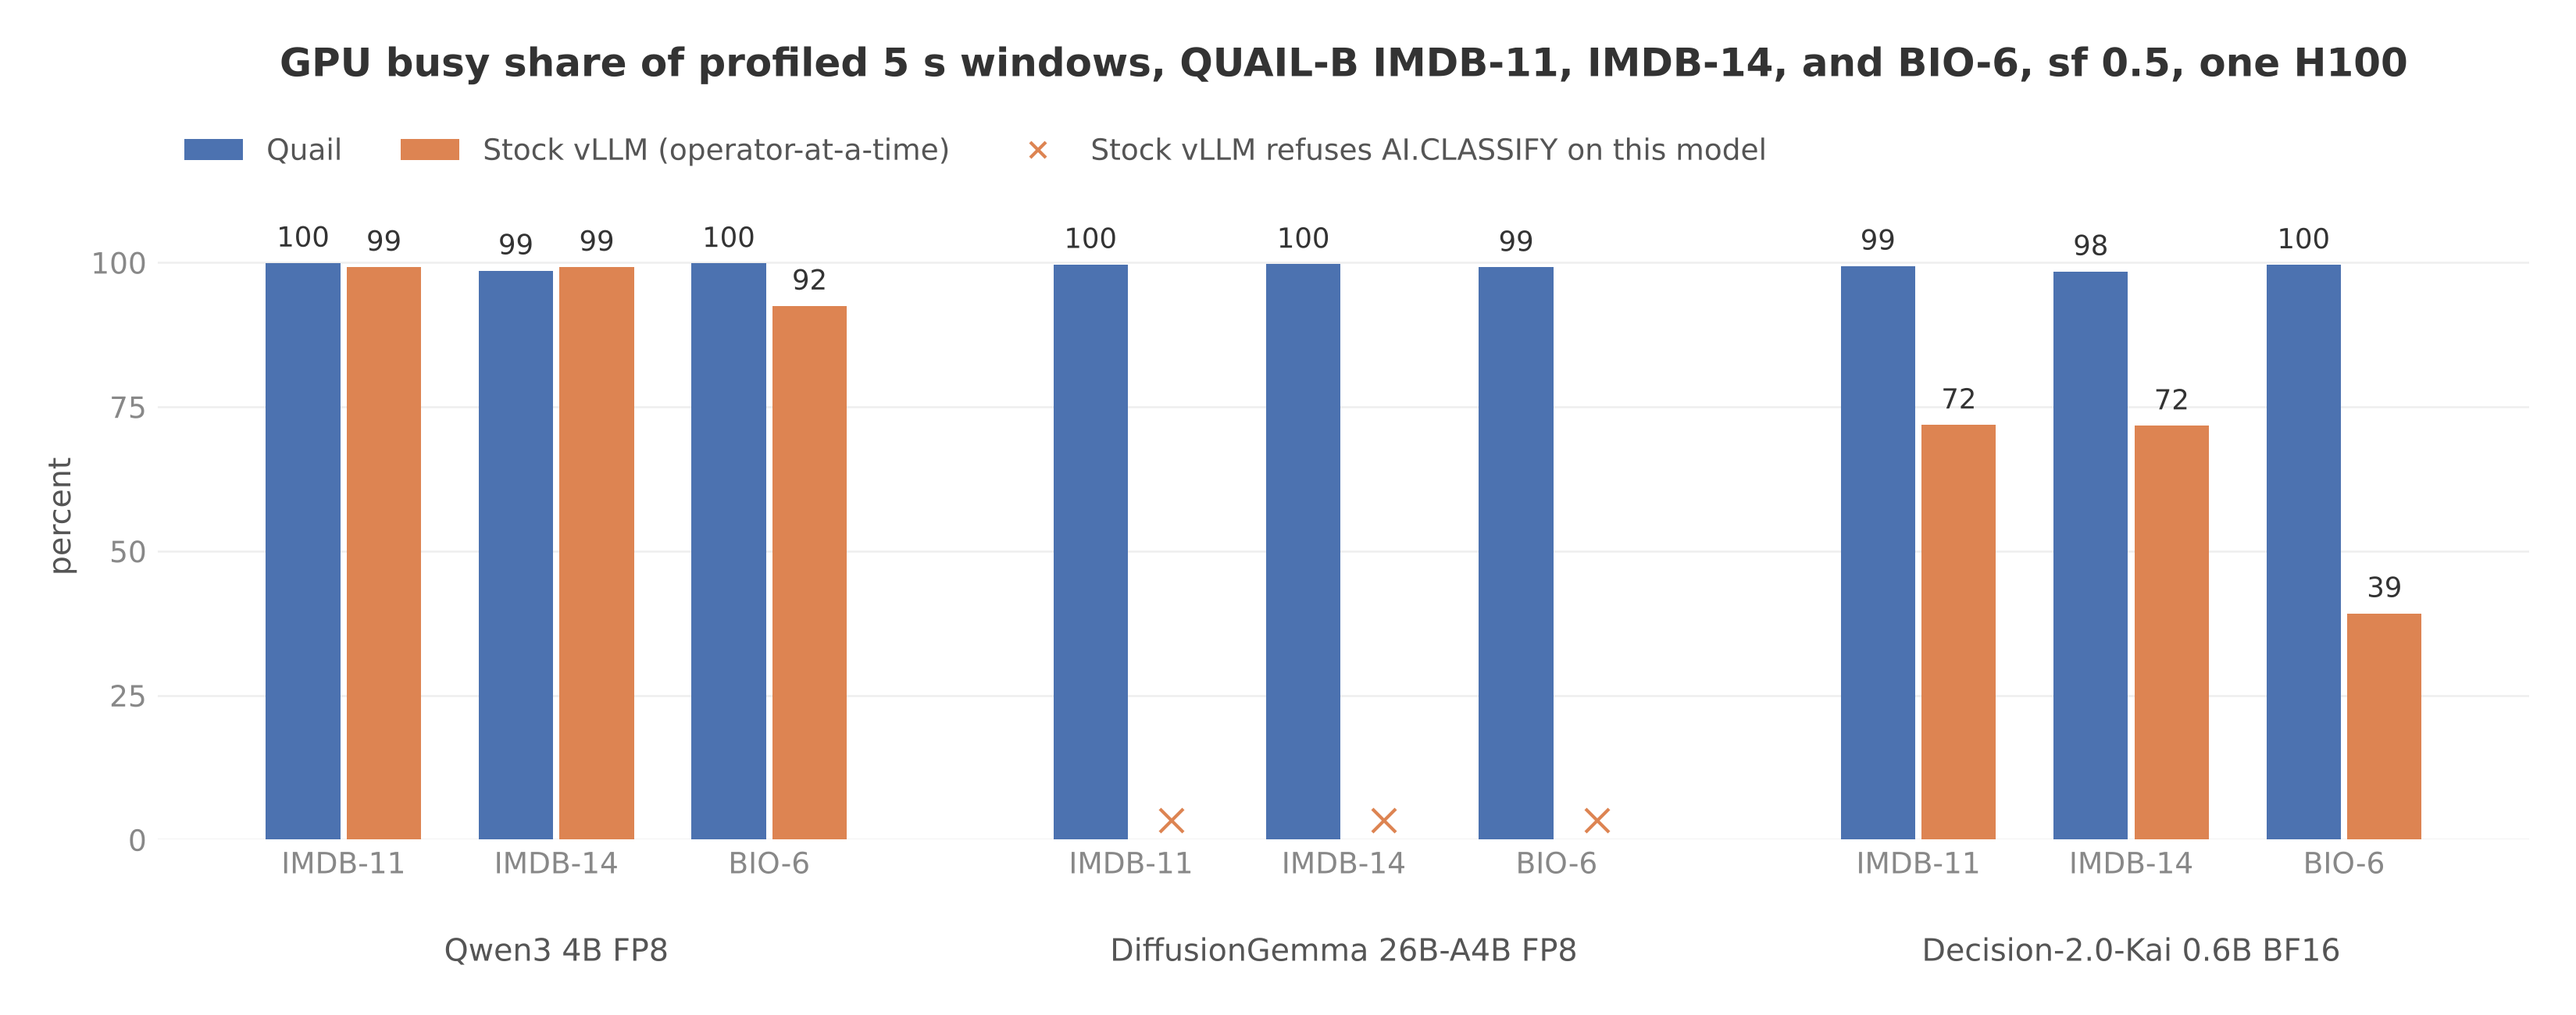
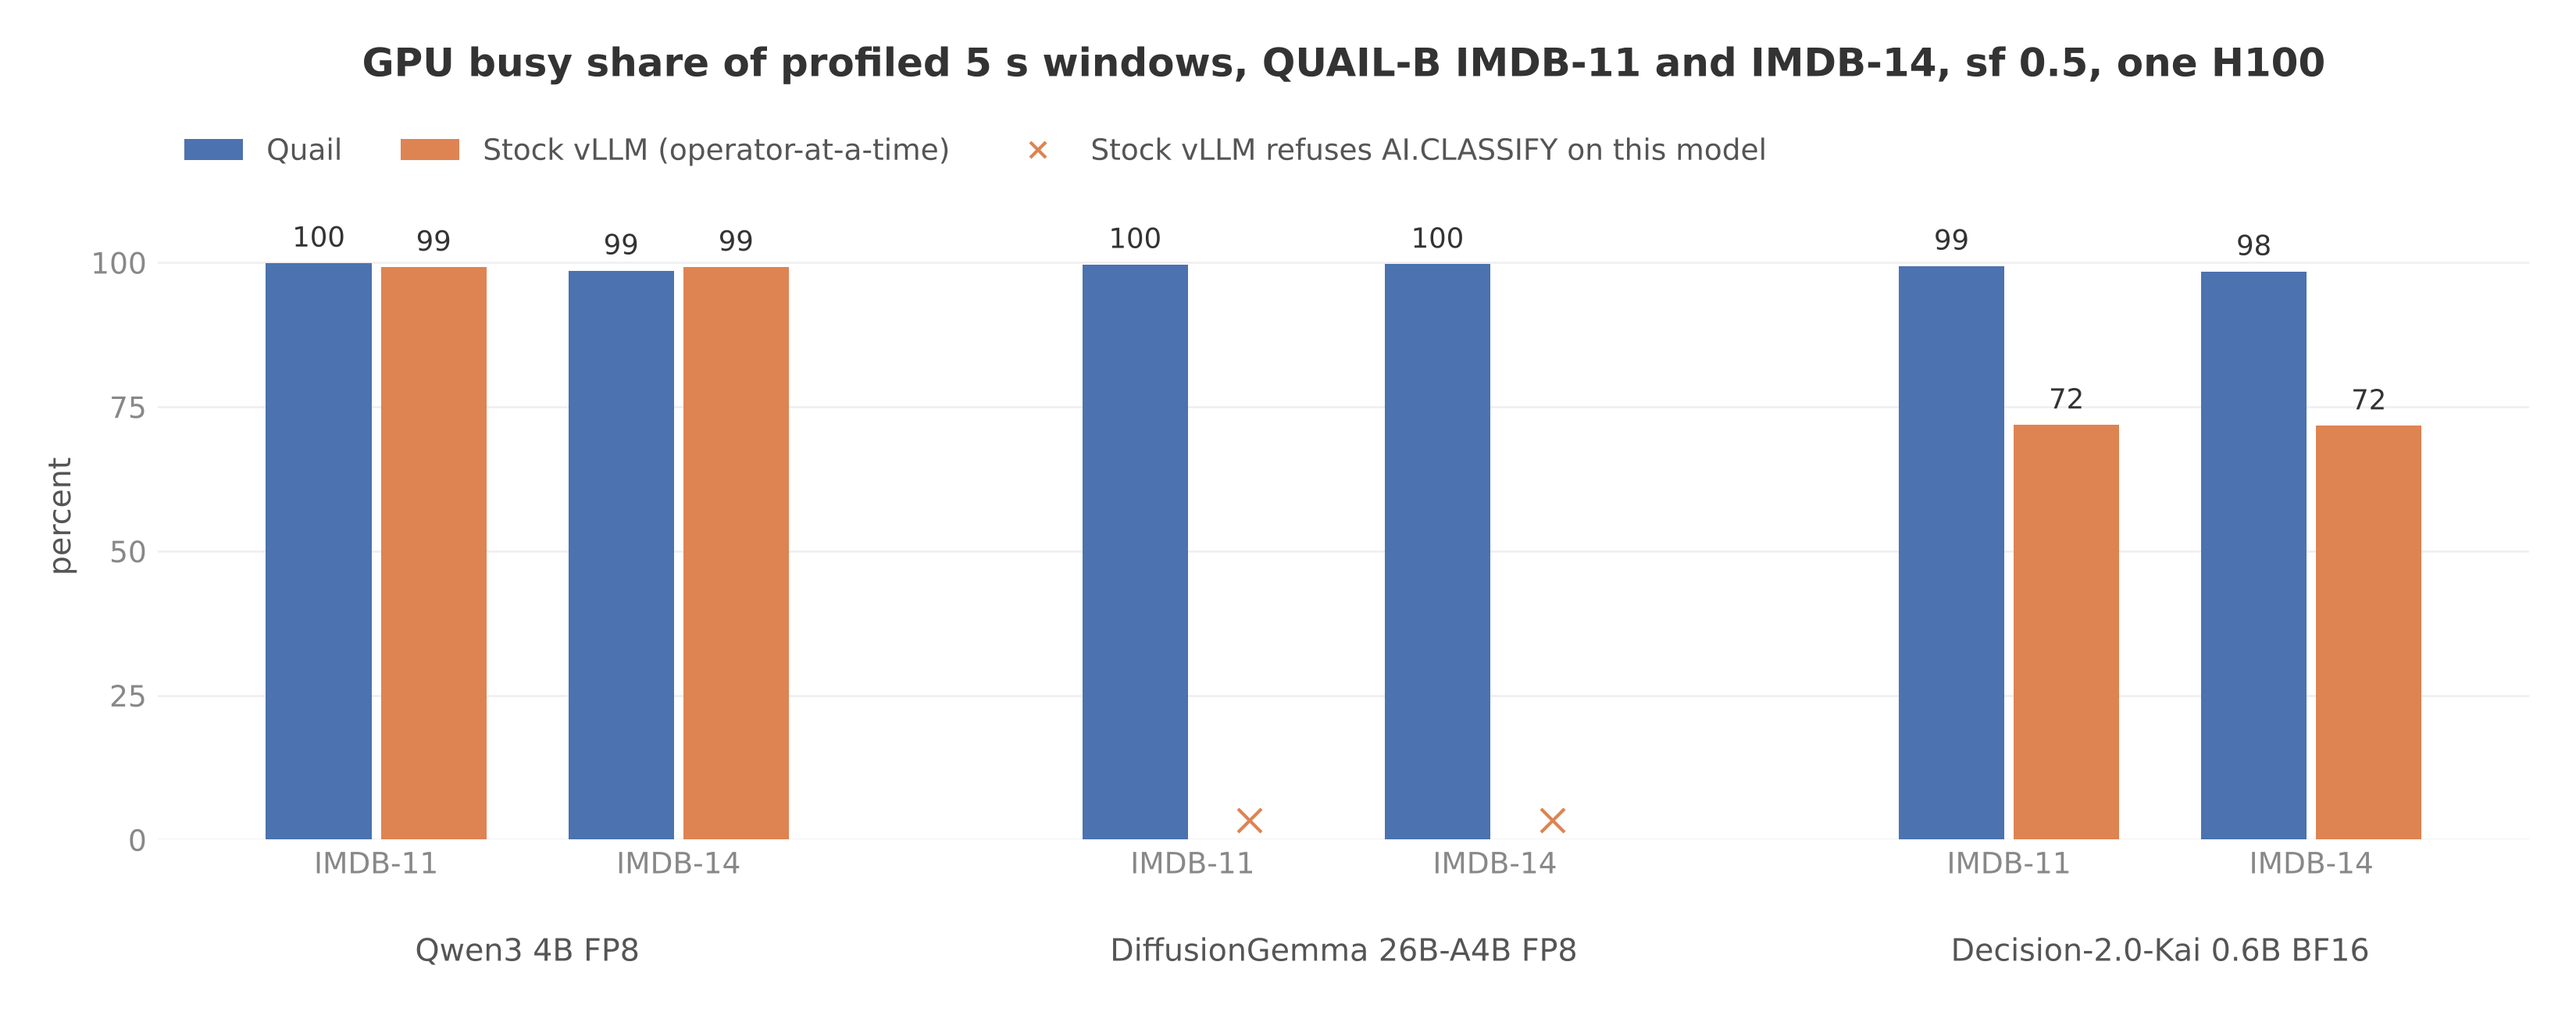
Limit the classification profile report to IMDB-11 and IMDB-14
BIO-6's profiled windows fall in its join, not its classification, so
the report, plots, and screenshots drop it. The screenshots now pair
stock vLLM and Quail on both queries for Kai and Qwen3 4B, plus Quail
alone on DiffusionGemma.

Claude-Session: https://claude.ai/code/session_0133YBW2mRbQriEoJ4wwq2Dd

diff --git a/reports/make_classify_profiles_plots.py b/reports/make_classify_profiles_plots.py
@@ -1,10 +1,10 @@
 r"""Plot the classification profile windows and capture their Perfetto views.
 
 Reads the torch.profiler windows that experiments/cells/classify_profiles.py
-saved for IMDB-11, IMDB-14, and BIO-6 on three models, Quail and stock
-vLLM. Writes two PNG plots, the GPU busy share of the profiled windows
-and the longest GPU idle gap in them, and, with --screenshots, one
-Perfetto screenshot per window in SHOTS. Pull the two run directories,
+saved for IMDB-11 and IMDB-14 on three models, Quail and stock vLLM.
+Writes two PNG plots, the GPU busy share of the profiled windows and
+the longest GPU idle gap in them, and, with --screenshots, one Perfetto
+screenshot per window in SHOTS. Pull the two run directories,
 then run from the repository root:
 
     W=/tmp/classify-profiles; mkdir -p "$W"
@@ -36,23 +36,24 @@ VOLUME_ROOT = "/results/ablations/classify-profiles/"
 MODELS = [("qwen3-4b-fp8", "Qwen3 4B FP8"),
           ("diffusion-gemma-26b-a4b-fp8", "DiffusionGemma 26B-A4B FP8"),
           ("decision-2.0-kai-0.6b-bf16", "Decision-2.0-Kai 0.6B BF16")]
-QUERIES = ["IMDB-11", "IMDB-14", "BIO-6"]
+QUERIES = ["IMDB-11", "IMDB-14"]
 METHODS = [("quail", "Quail", BLUE),
            ("stock_vllm", "Stock vLLM (operator-at-a-time)", ORANGE)]
 # stock vLLM's planner refuses AI.CLASSIFY on this model
 REFUSED = {("diffusion-gemma-26b-a4b-fp8", "stock_vllm")}
 # (model, backend, query, window index): pairs of the same model and
-# query, plus Quail's window with the lowest busy share
+# query, plus DiffusionGemma, which has no stock vLLM run
 SHOTS = [
     ("decision-2.0-kai-0.6b-bf16", "stock_vllm", "IMDB-11", 0),
     ("decision-2.0-kai-0.6b-bf16", "quail", "IMDB-11", 0),
-    ("decision-2.0-kai-0.6b-bf16", "stock_vllm", "BIO-6", 2),
-    ("decision-2.0-kai-0.6b-bf16", "quail", "BIO-6", 0),
-    ("qwen3-4b-fp8", "stock_vllm", "BIO-6", 2),
-    ("qwen3-4b-fp8", "quail", "BIO-6", 1),
+    ("decision-2.0-kai-0.6b-bf16", "stock_vllm", "IMDB-14", 0),
+    ("decision-2.0-kai-0.6b-bf16", "quail", "IMDB-14", 0),
     ("qwen3-4b-fp8", "stock_vllm", "IMDB-11", 0),
     ("qwen3-4b-fp8", "quail", "IMDB-11", 0),
-    ("diffusion-gemma-26b-a4b-fp8", "quail", "BIO-6", 0),
+    ("qwen3-4b-fp8", "stock_vllm", "IMDB-14", 0),
+    ("qwen3-4b-fp8", "quail", "IMDB-14", 0),
+    ("diffusion-gemma-26b-a4b-fp8", "quail", "IMDB-11", 0),
+    ("diffusion-gemma-26b-a4b-fp8", "quail", "IMDB-14", 0),
 ]
 SHORT = {"qwen3-4b-fp8": "qwen3_4b", "diffusion-gemma-26b-a4b-fp8": "dgemma",
          "decision-2.0-kai-0.6b-bf16": "kai"}
@@ -82,6 +83,8 @@ def load(workdir):
     for tag in TAGS:
         for path in sorted((workdir / tag).glob("*/*/*/window.json")):
             model, backend, query = path.parent.relative_to(workdir / tag).parts
+            if query not in QUERIES:
+                continue
             record = json.loads(path.read_text())
             record["windows"] = windows(record)
             if record["windows"]:
@@ -139,7 +142,7 @@ def draw(axis, values, key, unit, log=False):
     axis.set_xticks([x for _, _, x in xs], [query for _, query, _ in xs])
     if log:
         axis.set_yscale("log")
-        axis.set_ylim(0.005, 30000)
+        axis.set_ylim(0.005, 3000)
         axis.set_ylabel(f"{unit} (log scale)")
     else:
         axis.set_ylim(0, 112)
@@ -166,8 +169,8 @@ def legend(axis):
 
 def plot(values):
     """Write the busy-share plot and the busy-share-and-gap plot."""
-    title = ("GPU busy share of profiled 5 s windows, QUAIL-B IMDB-11, "
-             "IMDB-14, and BIO-6, sf 0.5, one H100")
+    title = ("GPU busy share of profiled 5 s windows, QUAIL-B IMDB-11 "
+             "and IMDB-14, sf 0.5, one H100")
     figure, axis = plt.subplots(figsize=(11, 4.6))
     draw(axis, values, "busy", "percent")
     axis.set_title(title, pad=36)

diff --git a/reports/2026-10-08-classify-profiles.md b/reports/2026-10-08-classify-profiles.md
@@ -1,29 +1,22 @@
-# GPU profiles of three classification queries, Quail and stock vLLM
+# GPU profiles of IMDB-11 and IMDB-14, Quail and stock vLLM
 
 Date: 2026-10-08.
 
-In every profiled 5 s window, Quail keeps the GPU busy 98 to 100% of
-the time. Stock vLLM leaves it idle on Decision-2.0-Kai 0.6B: busy 72%
-on the classification queries and 39% in BIO-6's join. On Qwen3 4B,
-stock vLLM is busy 99% on IMDB-11 and IMDB-14, where its extra time
-comes from more tokens and slower kernels, not idle GPU, and 92% in
-BIO-6.
-
-The windows only sample stretches when the engine runs forward passes.
-On BIO-6, stock vLLM went at least 236 s (Kai) and 362 s (Qwen3 4B)
-with no engine step at all, while the baseline built one prompt per
-join pair and added them all to vLLM before its first step.
+In every profiled 5 s window of the two classification queries, Quail
+keeps the GPU busy 98 to 100% of the time. Stock vLLM leaves it idle
+28% of the time on Decision-2.0-Kai 0.6B. On Qwen3 4B, stock vLLM is
+also busy 99%, and its extra time comes from more tokens and slower
+kernels, not from an idle GPU.
 
 [![GPU busy share and longest gap](plots/classify_profiles_gpu_busy_and_gap.png)](plots/classify_profiles_gpu_busy_and_gap.png)
 
 ## Setup
 
-- Queries: IMDB-11, IMDB-14, and BIO-6. They are the classification
-  queries farthest from the SoL estimate in the sf 0.5 runs of
-  2026-10-01, among those that run long enough to sample a steady
-  state. IMDB-11 is one classification. IMDB-14 is a filter, then
-  classifications with 4 and 8 labels. BIO-6 is a join, then a
-  classification with 26 labels.
+- Queries: IMDB-11, one classification with 4 labels, and IMDB-14, a
+  filter, then classifications with 4 and 8 labels. They are the
+  classification queries farthest from the SoL estimate in the sf 0.5
+  runs of 2026-10-01, among those that run long enough to sample a
+  steady state.
 - Models: Qwen3 4B FP8, DiffusionGemma 26B-A4B FP8, and
   Decision-2.0-Kai 0.6B BF16. Stock vLLM's planner refuses AI.CLASSIFY
   on DiffusionGemma, whose engine returns no text, so it has no vLLM
@@ -33,9 +26,8 @@ join pair and added them all to vLLM before its first step.
   process.
 - Capture: `experiments/cells/classify_profiles.py`, torch.profiler
   with CPU and CUDA activity. A window starts and stops at a forward
-  pass boundary: a Quail chunk or a vLLM engine step. The first window
-  starts 10 s into model execution, then one every 120 s. Model
-  loading and planning run unprofiled.
+  pass boundary: a Quail chunk or a vLLM engine step. Model loading and
+  planning run unprofiled.
 - Stock vLLM ran with its engine core in the client process
   (`VLLM_ENABLE_V1_MULTIPROCESSING=0`) so the profiler sees its
   kernels. The benchmark runs keep the engine core in its own process
@@ -46,77 +38,85 @@ Runs, on the `quail-results` volume:
 
 | Directory | Runs | Code | Function call ids |
 |---|---|---|---|
-| `/results/ablations/classify-profiles/20261008T042520Z/` | IMDB-11 on all three engines and models; stock vLLM IMDB-14 | `9611eae` (Quail), `2189e98` (vLLM) on `claude/elegant-turing-ucd81t` | `fc-01M4CW4XNDNF7TTFZZN5N2QZP5`, `fc-01M4CW4XRRJW6PEB0S6TVS8KYT`, `fc-01M4CW4XVGKS88JDYP179EBXWM`, `fc-01M4CWHXXV0JMMKQC5KNS7ZGYQ`, `fc-01M4CWHY3QKR72AEZVKQN5G3QH` |
-| `/results/ablations/classify-profiles/20261008T052000Z/` | Quail IMDB-14 and BIO-6; stock vLLM BIO-6 | `d2c6a60` | `fc-01M4CY97D7CAR1V06VX3SWRWMK`, `fc-01M4CY97GCBF2T2K1SHFMQHEDP`, `fc-01M4CY97JZA6RQHWPNWWJVHYMV`, `fc-01M4CY8XH0JEYN207M1G6GC6JX`, `fc-01M4CY8XM04AQWRWX1HAVNYJKZ` |
+| `/results/ablations/classify-profiles/20261008T042520Z/` | IMDB-11 on every model and engine; stock vLLM IMDB-14 | `9611eae` (Quail), `2189e98` (vLLM) on `claude/elegant-turing-ucd81t` | `fc-01M4CW4XNDNF7TTFZZN5N2QZP5`, `fc-01M4CW4XRRJW6PEB0S6TVS8KYT`, `fc-01M4CW4XVGKS88JDYP179EBXWM`, `fc-01M4CWHXXV0JMMKQC5KNS7ZGYQ`, `fc-01M4CWHY3QKR72AEZVKQN5G3QH` |
+| `/results/ablations/classify-profiles/20261008T052000Z/` | Quail IMDB-14 | `d2c6a60` | `fc-01M4CY97D7CAR1V06VX3SWRWMK`, `fc-01M4CY97GCBF2T2K1SHFMQHEDP`, `fc-01M4CY97JZA6RQHWPNWWJVHYMV` |
 
-The first directory also holds Quail IMDB-14 and BIO-6 runs whose
-window never armed, and a one-window vLLM BIO-6 run. The later
-directory replaces both.
+In the first directory, Quail's IMDB-14 window armed on a stage the
+fused pipeline never enters, so the later directory replaces it. Both
+directories also hold BIO-6 runs, which this report leaves out.
 
 ## Result
 
-GPU busy share is GPU-active seconds over the seconds from each
-window's first device event to its last, summed over the run's full
-windows. Overlapping kernels count once. A window cut short by the
-query's end is left out.
+GPU busy share is GPU-active seconds over the seconds from the
+window's first device event to its last. Overlapping kernels count
+once.
 
-| Model | Engine | Query | Windows | GPU busy | Longest idle gap |
-|---|---|---|---:|---:|---:|
-| Qwen3 4B | Quail | IMDB-11 | 1 | 99.9% | 0.01 ms |
-| Qwen3 4B | stock vLLM | IMDB-11 | 1 | 99.2% | 12.5 ms |
-| Qwen3 4B | Quail | IMDB-14 | 1 | 98.6% | 54.1 ms |
-| Qwen3 4B | stock vLLM | IMDB-14 | 1 | 99.2% | 11.6 ms |
-| Qwen3 4B | Quail | BIO-6 | 2 | 99.9% | 4.8 ms |
-| Qwen3 4B | stock vLLM | BIO-6 | 4 | 92.5% | 268.9 ms |
-| DiffusionGemma | Quail | IMDB-11 | 1 | 99.7% | 2.0 ms |
-| DiffusionGemma | Quail | IMDB-14 | 1 | 99.7% | 0.3 ms |
-| DiffusionGemma | Quail | BIO-6 | 3 | 99.2% | 95.1 ms |
-| Kai | Quail | IMDB-11 | 1 | 99.4% | 0.01 ms |
-| Kai | stock vLLM | IMDB-11 | 1 | 71.9% | 348.6 ms |
-| Kai | Quail | IMDB-14 | 1 | 98.4% | 41.3 ms |
-| Kai | stock vLLM | IMDB-14 | 1 | 71.7% | 377.5 ms |
-| Kai | Quail | BIO-6 | 1 | 99.6% | 0.1 ms |
-| Kai | stock vLLM | BIO-6 | 5 | 39.2% | 6,179.7 ms |
+| Model | Engine | Query | GPU busy | Longest idle gap | Fresh tokens | Profiled query time |
+|---|---|---|---:|---:|---:|---:|
+| Qwen3 4B | Quail | IMDB-11 | 99.9% | 0.01 ms | 8.6M | 76.2 s |
+| Qwen3 4B | stock vLLM | IMDB-11 | 99.2% | 12.5 ms | 8.7M | 93.1 s |
+| Qwen3 4B | Quail | IMDB-14 | 98.6% | 54.1 ms | 9.7M | 96.8 s |
+| Qwen3 4B | stock vLLM | IMDB-14 | 99.2% | 11.6 ms | 14.1M | 150.8 s |
+| DiffusionGemma | Quail | IMDB-11 | 99.7% | 2.0 ms | 9.7M | 104.0 s |
+| DiffusionGemma | Quail | IMDB-14 | 99.7% | 0.3 ms | 11.3M | 132.0 s |
+| Kai | Quail | IMDB-11 | 99.4% | 0.01 ms | 10.0M | 24.3 s |
+| Kai | stock vLLM | IMDB-11 | 71.9% | 348.6 ms | 10.0M | 34.9 s |
+| Kai | Quail | IMDB-14 | 98.4% | 41.3 ms | 12.6M | 53.7 s |
+| Kai | stock vLLM | IMDB-14 | 71.7% | 377.5 ms | 17.2M | 57.5 s |
 
-### Where stock vLLM's GPU waits
+### Kai on stock vLLM: per-request copies and host gaps
 
-- **Kai classification, per request copies.** Each engine step runs
-  about 160 ms on the GPU for about 165 requests. It opens with about
-  165 small host-to-device copies and closes with about 165
-  device-to-host copies of the pooled decision rows, one per request.
-  Then the GPU waits about 21 ms for the next step. Qwen3 4B text
-  generation makes 2 device-to-host copies per step.
-- **Kai BIO-6 join, host-bound steps.** Each step uploads about 850
-  pair requests, computes for 0.3 s, reads 850 pooled rows back, then
-  waits 0.35 to 0.45 s for the host. The prefix cache serves almost
-  every prompt: 1,169M input tokens against 35M fresh. The longest gap,
-  6.2 s, is at the end of the join, in the last window.
-- **Qwen3 4B BIO-6 join, scheduling gaps.** Steps run 0.3 s on the
-  GPU with 50 to 270 ms gaps between them.
-- **BIO-6, request admission.** The baseline submits every join pair
-  in one `generate` call, and vLLM adds all the requests before its
-  first step. A window due at 306 s on Qwen3 4B opened at 668 s, and
-  one due at 201 s on Kai opened at 437 s. The engine ran no step in
-  between, so the GPU was idle for at least 362 s and 236 s.
+On IMDB-11, each engine step runs about 160 ms on the GPU for about
+165 requests. The step opens with about 165 small host-to-device
+copies and closes with about 165 device-to-host copies of the pooled
+decision rows, 2 to 3 KB in total, one per request. Then the GPU waits
+about 21 ms while the host processes outputs and schedules the next
+step. Qwen3 4B text generation makes 2 device-to-host copies per step.
+
+The window's 1.42 s of idle time splits into:
+
+- 0.51 s in 24 gaps of about 21 ms between steps.
+- 0.39 s in about 30,000 gaps under 50 µs between kernels. The 0.6B
+  model's kernels are short enough that launch spacing shows.
+- 0.35 s in one stall near the end of the window.
+- 0.18 s in the rest.
+
+The torch operators recorded in the step gaps (`aten::any`,
+`aten::isnan`, `aten::item`) add up to under 1 ms. The rest is Python
+without a torch operator: vLLM's output processing and scheduler, and
+the baseline's request handling. The traces carry no Python stacks, so
+they do not split it further. IMDB-14's classification stage shows
+the same pattern.
+
+### Qwen3 4B on stock vLLM: busy, but more work
+
+On IMDB-11, both engines process the same tokens and keep the GPU 99%
+busy, yet stock vLLM takes 93.1 s against Quail's 76.2 s. Its kernel
+time splits differently: 25% in quantize and activation kernels, with
+a standalone `per_token_group_quant_8bit_kernel` at 18%, against 12 to
+14% for Quail's fused SiLU and quantize. On IMDB-14, stock vLLM
+computes 14.1M fresh tokens against Quail's 9.7M, because it computes
+each review once for the filter and again for the classifications.
+Its time is 1.56 times Quail's, close to the 1.45 times token ratio.
 
 ### Where Quail's time goes
 
-Quail's GPU stays busy in the windows, and on IMDB-11 and IMDB-14 it
-computes within 2% (Qwen3 4B) and 13% (DiffusionGemma) of the SoL
-estimate's tokens. Its time over SoL, 2.3x on Qwen3 4B IMDB-11 and up
-to 4.4x on DiffusionGemma BIO-6, is per-token kernel time. Kernel time
-in the windows splits as follows:
+Quail computes within 2% (Qwen3 4B) and 13% (DiffusionGemma) of the
+SoL estimate's tokens, with the GPU busy. Its time over SoL, 2.3 and
+2.6 times on Qwen3 4B and 3.6 and 4.0 times on DiffusionGemma, is
+per-token kernel time. Kernel time in the windows:
 
-- Qwen3 4B: GEMM 49 to 65%, attention 15 to 35%, fused quantize and
-  activation 11 to 14%.
-- DiffusionGemma: MoE 25 to 39%, GEMM 19 to 27%, attention 7% on
-  IMDB-11 and 31% on BIO-6.
-- Kai: GEMM 37 to 60%, attention 15 to 45%.
+- Qwen3 4B: GEMM 61 to 65%, attention 15 to 18%, fused quantize and
+  activation 14%.
+- DiffusionGemma: MoE 39%, GEMM 24 to 25%, quantize and activation
+  14%, norm and RoPE 12%.
+- Kai: GEMM 56 to 57%, attention 15 to 17%, norm and RoPE 12%.
 
-On every IMDB-14 and BIO-6 run, Quail's first window opened 2 to 13 s
-after it was due. All of Quail's forward passes go through the hooked
-function, so Quail ran no forward pass in those seconds. The stage
-records do not show what it did instead.
+On IMDB-14, Quail's window opened 3 to 13 s after it was due. All of
+Quail's forward passes go through the hooked function, so Quail ran
+no forward pass in those seconds, between the filter stages and the
+first chunk of the fused pipeline. The stage records do not show what
+it did instead.
 
 ## Screenshots
 
@@ -124,16 +124,14 @@ Each pair shows the same model and query, stock vLLM first. In every
 screenshot, `stream N N` is the GPU and `thread N (python)` is the
 engine's main thread. Time runs left to right across the window.
 
-| Pair | Stock vLLM | Quail |
+| Model, query | Stock vLLM | Quail |
 |---|---|---|
 | Kai, IMDB-11 | [72% busy](plots/classify_profiles_kai_imdb-11_stock_vllm.png) | [99% busy](plots/classify_profiles_kai_imdb-11_quail.png) |
-| Kai, BIO-6 join | [38% busy](plots/classify_profiles_kai_bio-6_stock_vllm.png) | [100% busy](plots/classify_profiles_kai_bio-6_quail.png) |
-| Qwen3 4B, BIO-6 join | [79% busy](plots/classify_profiles_qwen3_4b_bio-6_stock_vllm.png) | [100% busy](plots/classify_profiles_qwen3_4b_bio-6_quail.png) |
+| Kai, IMDB-14 | [72% busy](plots/classify_profiles_kai_imdb-14_stock_vllm.png) | [98% busy](plots/classify_profiles_kai_imdb-14_quail.png) |
 | Qwen3 4B, IMDB-11 | [99% busy](plots/classify_profiles_qwen3_4b_imdb-11_stock_vllm.png) | [100% busy](plots/classify_profiles_qwen3_4b_imdb-11_quail.png) |
-
-[DiffusionGemma, BIO-6](plots/classify_profiles_dgemma_bio-6_quail.png)
-is Quail's window with the lowest busy share, 98%, with one 95 ms gap
-at a chunk boundary.
+| Qwen3 4B, IMDB-14 | [99% busy](plots/classify_profiles_qwen3_4b_imdb-14_stock_vllm.png) | [99% busy](plots/classify_profiles_qwen3_4b_imdb-14_quail.png) |
+| DiffusionGemma, IMDB-11 | not run | [100% busy](plots/classify_profiles_dgemma_imdb-11_quail.png) |
+| DiffusionGemma, IMDB-14 | not run | [100% busy](plots/classify_profiles_dgemma_imdb-14_quail.png) |
 
 On the Qwen3 4B IMDB-11 Quail screenshot, the GPU track starts 0.9 s
 into the window. Quail had about 0.9 s of kernels queued when the
@@ -142,17 +140,14 @@ it starts. The stop synchronize at the end waited for that queue.
 
 ## What is not settled
 
-- With the engine core in its own process, as benchmarked, vLLM can
-  step while the client still adds requests, and part of its host work
-  overlaps the GPU. The profiled vLLM BIO-6 run on Qwen3 4B took 873 s
-  against 630 s in the 2026-10-01 benchmark; the IMDB runs were within
-  8%. The idle shares above may overstate vLLM's idle time on BIO-6. A
-  profile with the engine core in its own process, using vLLM's own
-  profiler hooks, would settle it.
-- Windows sample only stretches with forward passes. Recording the
-  start time of every forward pass, which is cheap, would give each
-  run's full timeline and the total time with no pass, for both
-  engines.
+- With the engine core in its own process, as benchmarked, part of
+  vLLM's host work overlaps the GPU, so the idle share on Kai may be
+  lower there. The profiled vLLM runs took within 8% of the 2026-10-01
+  benchmark times on Qwen3 4B. A profile with the engine core in its
+  own process, using vLLM's own profiler hooks, would settle it.
+- Each run has one 5 s window. Recording the start of every forward
+  pass, which is cheap, would give each run's full timeline and its
+  total time with no pass.
 - Each configuration ran once. Quail's profiled times differ from the
   2026-10-01 runs by 2 to 15% in both directions, on different
   physical GPUs and a newer engine.
